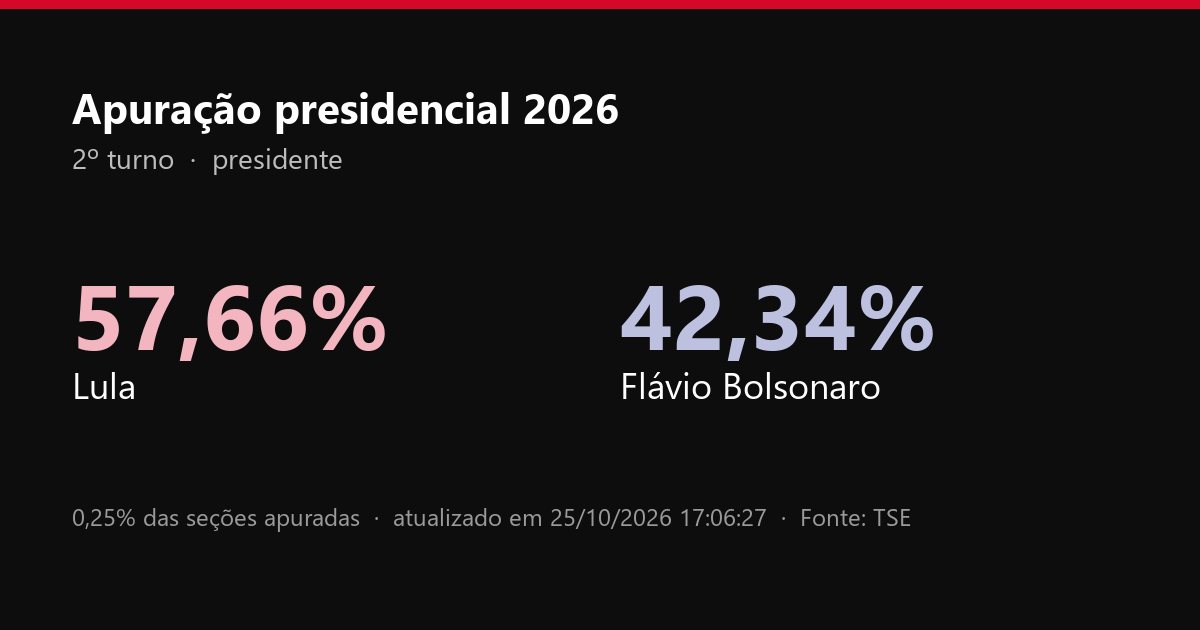
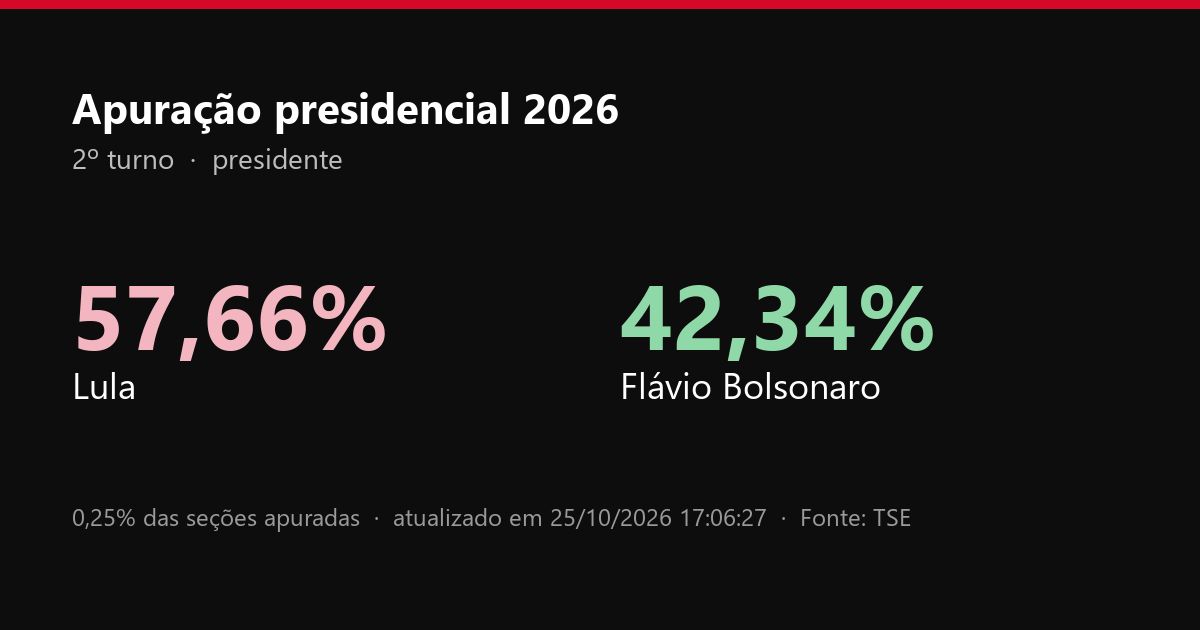
Usa o verde da bandeira para o Flávio Bolsonaro.

Changed region(s): [[0.4933, 0.4524, 0.8017, 0.573]]

diff --git a/index.html b/index.html
@@ -23,10 +23,10 @@
       --cinza: #d2d2d2;
       --lula: #d60828;
       --lula-claro: #f3b5bf;
-      --flavio: #272d97;
-      --flavio-claro: #bec0e0;
+      --flavio: #009c3b;
+      --flavio-claro: #8fd9a8;
       --lula-faixas: #f3b5bf, #e66b7e, #d60828;
-      --flavio-faixas: #bec0e0, #7d81c1, #272d97;
+      --flavio-faixas: #b7e6c9, #2da85a, #009c3b;
     }
     * { box-sizing: border-box; }
     html, body { margin: 0; background: var(--fundo); color: var(--texto); }
@@ -141,7 +141,7 @@
   </footer>
   <script>
     const LULA = ["#f3b5bf", "#e66b7e", "#d60828"];
-    const FLAVIO = ["#bec0e0", "#7d81c1", "#272d97"];
+    const FLAVIO = ["#b7e6c9", "#2da85a", "#009c3b"];
     const CINZA = "#d2d2d2";
     const FUNDO = "#0d0d0e";
 

diff --git a/gera_og.py b/gera_og.py
@@ -37,7 +37,7 @@ def main() -> None:
     desenho.text((72, 138), "2º turno  ·  presidente", font=fonte(28), fill="#bdbdbd")
     desenho.text((72, 250), f"{lula['pct']}%", font=fonte(92, True), fill="#f3b5bf")
     desenho.text((72, 360), "Lula", font=fonte(36), fill="#ffffff")
-    desenho.text((620, 250), f"{flavio['pct']}%", font=fonte(92, True), fill="#bec0e0")
+    desenho.text((620, 250), f"{flavio['pct']}%", font=fonte(92, True), fill="#8fd9a8")
     desenho.text((620, 360), "Flávio Bolsonaro", font=fonte(36), fill="#ffffff")
     desenho.text(
         (72, 500),
